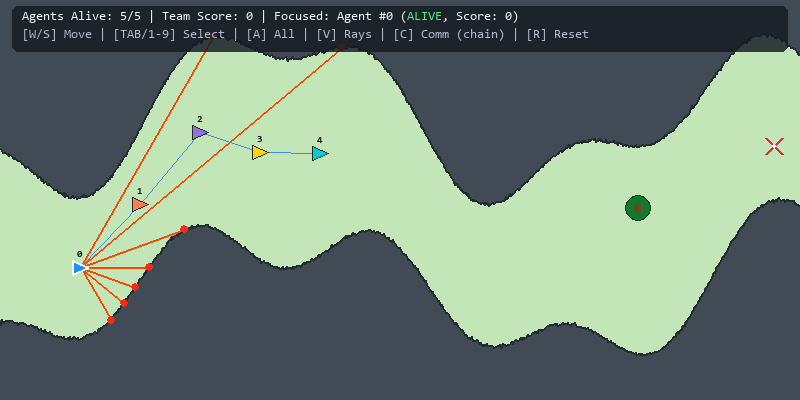
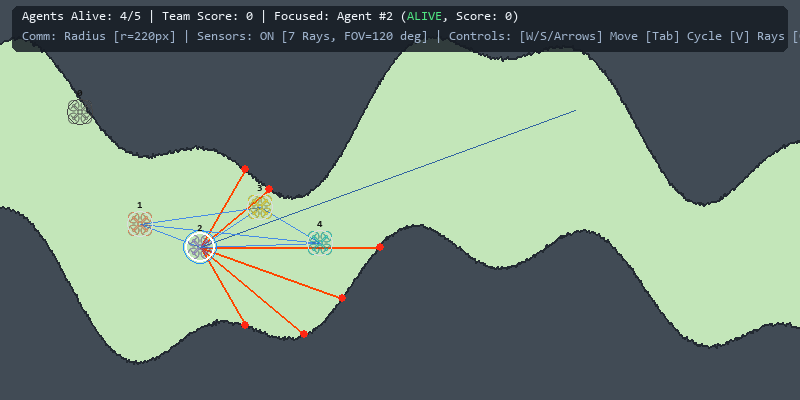
Replace agent triangle representation with quadcopter sprite from assets

diff --git a/scrollswarm/sprites.py b/scrollswarm/sprites.py
@@ -1,0 +1,62 @@
+"""
+Sprite rendering utilities for ScrollSwarm.
+
+Provides vector sprite rendering and color-tint caching for the quadcopter agent model.
+"""
+
+import io
+from pathlib import Path
+from typing import Dict, Optional, Tuple
+import pygame
+
+# Default quadcopter visual dimensions (width, height in pixels)
+DEFAULT_SPRITE_SIZE = (24, 24)
+
+_SPRITE_CACHE: Dict[Tuple[Tuple[int, int, int], Tuple[int, int]], pygame.Surface] = {}
+_SVG_TEMPLATE: Optional[str] = None
+
+
+def _get_svg_template() -> str:
+    global _SVG_TEMPLATE
+    if _SVG_TEMPLATE is None:
+        # Search package directory and workspace assets
+        pkg_dir = Path(__file__).resolve().parent
+        asset_candidates = [
+            pkg_dir.parent / "assets" / "quadrocopte.svg",
+            Path("assets/quadrocopte.svg"),
+        ]
+        svg_path = next((p for p in asset_candidates if p.exists()), None)
+        if svg_path is None:
+            raise FileNotFoundError("Could not locate assets/quadrocopte.svg")
+
+        with open(svg_path, "r", encoding="utf-8") as f:
+            raw = f.read()
+
+        # Ensure width and height match the 470.606 viewBox so sprite is centered with no offset
+        raw = raw.replace('height="800px" width="800px"', 'width="470.606px" height="470.606px"')
+        _SVG_TEMPLATE = raw
+
+    return _SVG_TEMPLATE
+
+
+def get_quadcopter_sprite(
+    color: Tuple[int, int, int],
+    size: Tuple[int, int] = DEFAULT_SPRITE_SIZE,
+) -> pygame.Surface:
+    """
+    Returns a cached Pygame Surface of the quadcopter tinted with the given RGB color
+    and smoothly scaled to the requested pixel size.
+    """
+    cache_key = (color, size)
+    if cache_key in _SPRITE_CACHE:
+        return _SPRITE_CACHE[cache_key]
+
+    template = _get_svg_template()
+    hex_color = "#{:02x}{:02x}{:02x}".format(*color)
+    colored_svg = template.replace('fill="#000000"', f'fill="{hex_color}"')
+
+    # Load vector SVG surface and smoothly scale to target pixel size
+    raw_surf = pygame.image.load(io.BytesIO(colored_svg.encode("utf-8")))
+    scaled_surf = pygame.transform.smoothscale(raw_surf, size)
+    _SPRITE_CACHE[cache_key] = scaled_surf
+    return scaled_surf

diff --git a/main.py b/main.py
@@ -43,6 +43,7 @@ from scrollswarm.agent import (
 )
 from scrollswarm.sensors import RaySensor
 from scrollswarm.comm import CommunicationGraph, TopologyType
+from scrollswarm.sprites import get_quadcopter_sprite
 
 
 def draw_topography(surface: pygame.Surface, scrolling_map: ScrollingMap) -> None:
@@ -137,20 +138,24 @@ def draw_comm_links(surface: pygame.Surface, comm_graph: CommunicationGraph, age
 
 
 def draw_agents(surface: pygame.Surface, agents: List[Agent], selected_idx: int, font: pygame.font.Font) -> None:
-    """Renders all agents (pointing RIGHT) with outline and ID tags."""
+    """Renders all agents with quadcopter sprites, focus ring, and ID tags."""
     for idx, agent in enumerate(agents):
-        pts = [(int(vx), int(vy)) for vx, vy in agent.vertices]
         color = agent.color if agent.alive else COLOR_AGENT_DEAD
-        pygame.draw.polygon(surface, color, pts)
+        sprite = get_quadcopter_sprite(color, size=(24, 24))
+        sw, sh = sprite.get_size()
+        surface.blit(sprite, (int(agent.x - sw // 2), int(agent.y - sh // 2)))
 
-        # Highlight currently selected agent with a white outline
-        outline_color = (255, 255, 255) if idx == selected_idx else (40, 40, 40)
-        outline_width = 2 if idx == selected_idx else 1
-        pygame.draw.polygon(surface, outline_color, pts, width=outline_width)
+        # Highlight currently selected agent with high-contrast dual focus rings
+        if idx == selected_idx:
+            pygame.draw.circle(surface, (255, 255, 255), (int(agent.x), int(agent.y)), 15, width=2)
+            pygame.draw.circle(surface, (30, 144, 255), (int(agent.x), int(agent.y)), 17, width=1)
+        else:
+            ring_col = (220, 220, 220) if agent.alive else (70, 70, 70)
+            pygame.draw.circle(surface, ring_col, (int(agent.x), int(agent.y)), 13, width=1)
 
-        # Small ID label above agent
+        # ID label above agent
         lbl = font.render(str(agent.agent_id), True, (20, 20, 20))
-        surface.blit(lbl, (int(agent.x - 3), int(agent.y - agent.height - 4)))
+        surface.blit(lbl, (int(agent.x - 3), int(agent.y - sh // 2 - 12)))
 
 
 def main() -> None:

diff --git a/scrollswarm/env.py b/scrollswarm/env.py
@@ -32,6 +32,7 @@ from scrollswarm.map import (
 from scrollswarm.agent import Agent, Action, create_agents, COLOR_AGENT_DEAD
 from scrollswarm.sensors import RaySensor
 from scrollswarm.comm import CommunicationGraph, TopologyType
+from scrollswarm.sprites import get_quadcopter_sprite
 
 
 class ScrollSwarmEnv(ParallelEnv):
@@ -305,16 +306,21 @@ class ScrollSwarmEnv(ParallelEnv):
                 pygame.draw.line(surface, COLOR_TARGET, (cx - s, cy + s), (cx + s, cy - s), 3)
                 pygame.draw.circle(surface, (255, 255, 255), (cx, cy), 2)
 
-        # 4. Agents (pointing right)
+        # 4. Agents (quadcopter sprites)
         all_agents = list(self._agent_map.values())
         for agent in all_agents:
-            pts = [(int(vx), int(vy)) for vx, vy in agent.vertices]
             color = agent.color if agent.alive else COLOR_AGENT_DEAD
-            pygame.draw.polygon(surface, color, pts)
-            pygame.draw.polygon(surface, (255, 255, 255) if agent.alive else (40, 40, 40), pts, 1)
+            sprite = get_quadcopter_sprite(color, size=(24, 24))
+            sw, sh = sprite.get_size()
+            surface.blit(sprite, (int(agent.x - sw // 2), int(agent.y - sh // 2)))
 
+            # Status ring around quadcopter (white when alive, subtle dark when dead)
+            ring_col = (255, 255, 255) if agent.alive else (70, 70, 70)
+            pygame.draw.circle(surface, ring_col, (int(agent.x), int(agent.y)), 13, width=1)
+
+            # ID label above quadcopter
             lbl = self._id_font.render(str(agent.agent_id), True, (20, 20, 20))
-            surface.blit(lbl, (int(agent.x - 3), int(agent.y - agent.height - 4)))
+            surface.blit(lbl, (int(agent.x - 3), int(agent.y - sh // 2 - 12)))
 
         # 5. Telemetry HUD
         hud_bg = pygame.Surface((w - 24, 46), pygame.SRCALPHA)

diff --git a/tests/test_sprites.py b/tests/test_sprites.py
@@ -1,0 +1,39 @@
+"""
+Unit tests for quadcopter sprite loading, recoloring, and caching.
+"""
+
+import pytest
+import pygame
+from scrollswarm.sprites import get_quadcopter_sprite, DEFAULT_SPRITE_SIZE
+from scrollswarm.agent import AGENT_PALETTE, COLOR_AGENT_DEAD
+
+
+@pytest.fixture(scope="module", autouse=True)
+def init_pygame():
+    pygame.init()
+    yield
+    pygame.quit()
+
+
+def test_get_quadcopter_sprite_default_size():
+    surf = get_quadcopter_sprite(AGENT_PALETTE[0])
+    assert isinstance(surf, pygame.Surface)
+    assert surf.get_size() == DEFAULT_SPRITE_SIZE
+
+
+def test_get_quadcopter_sprite_custom_size():
+    custom_size = (32, 32)
+    surf = get_quadcopter_sprite(AGENT_PALETTE[1], size=custom_size)
+    assert surf.get_size() == custom_size
+
+
+def test_get_quadcopter_sprite_caching():
+    surf1 = get_quadcopter_sprite(AGENT_PALETTE[2], size=(24, 24))
+    surf2 = get_quadcopter_sprite(AGENT_PALETTE[2], size=(24, 24))
+    assert surf1 is surf2  # Identical cached object
+
+
+def test_get_quadcopter_sprite_dead_color():
+    surf_dead = get_quadcopter_sprite(COLOR_AGENT_DEAD, size=(24, 24))
+    assert isinstance(surf_dead, pygame.Surface)
+    assert surf_dead.get_size() == (24, 24)

diff --git a/scrollswarm/__init__.py b/scrollswarm/__init__.py
@@ -26,6 +26,7 @@ from scrollswarm.agent import (
 from scrollswarm.sensors import RaySensor, RayHit
 from scrollswarm.items import Tree, Target
 from scrollswarm.comm import CommunicationGraph, TopologyType
+from scrollswarm.sprites import get_quadcopter_sprite
 
 __all__ = [
     "ScrollSwarmEnv",
@@ -44,6 +45,7 @@ __all__ = [
     "Target",
     "CommunicationGraph",
     "TopologyType",
+    "get_quadcopter_sprite",
     "COLOR_LAND",
     "COLOR_MOUNTAIN",
     "COLOR_MOUNTAIN_RIM",

diff --git a/README.md b/README.md
@@ -108,7 +108,7 @@ Rather than flat borders, ScrollSwarm features procedural, multi-scale undulatin
 
 ## Graph Communication & Topologies
 
-ScrollSwarm provides a formal graph layer for Graph Neural Networks (GNNs) and multi-agent communication (`objects/comm.py`):
+ScrollSwarm provides a formal graph layer for Graph Neural Networks (GNNs) and multi-agent communication (`scrollswarm/comm.py`):
 
 - **Supported Topologies:**
   - `chain` (Default): Path graph $P_N$ along column indices ($A_{ij} = 1 \iff |i - j| = 1$). Ideal for downstream predictive signaling.
@@ -131,18 +131,21 @@ scrollswarm/
 ├── README.md              # Project documentation
 ├── main.py                # Interactive 2D Pygame visualizer & demo runner
 ├── assets/
+│   ├── quadrocopte.svg    # Vector quadcopter agent model
 │   └── screenshot.png     # Gameplay preview render
 ├── scrollswarm/
 │   ├── __init__.py        # Public package exports
 │   ├── env.py             # PettingZoo ParallelEnv standard environment wrapper
 │   ├── map.py             # Multi-scale topography, scrolling engine, and clearance invariant
-│   ├── agent.py           # Agent entity, triangle geometry, and vertical dynamics (k = 5px)
+│   ├── agent.py           # Agent entity and vertical dynamics (k = 5px)
+│   ├── sprites.py         # Vector quadcopter sprite loading, recoloring, and caching
 │   ├── sensors.py         # 7-ray forward LiDAR rangefinder & observation vector
 │   ├── comm.py            # Graph communication topologies & message routing engine
 │   └── items.py           # Tree obstacles and collection target dataclasses
 └── tests/
     ├── test_map.py        # Topography, 1px scrolling, culling, and clearance invariant tests
     ├── test_agent.py      # Movement (k=5px), collisions, clamping, and team creation tests
+    ├── test_sprites.py    # Sprite loading, recoloring, and cache verification tests
     ├── test_sensors.py    # Raycasting math, boundary hits, entity detection, and vector shape tests
     ├── test_env.py        # PettingZoo ParallelEnv compliance & truncation tests
     └── test_comm.py       # Graph topology, dead-agent pruning, and message routing tests
